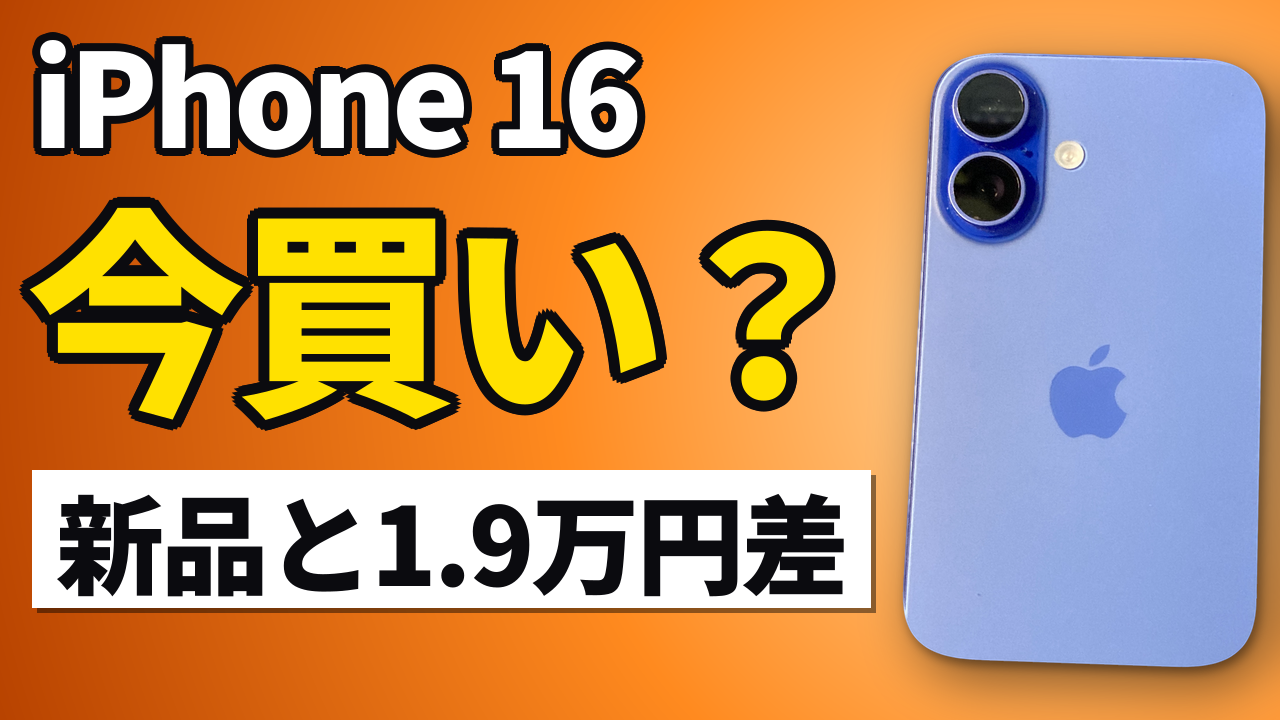
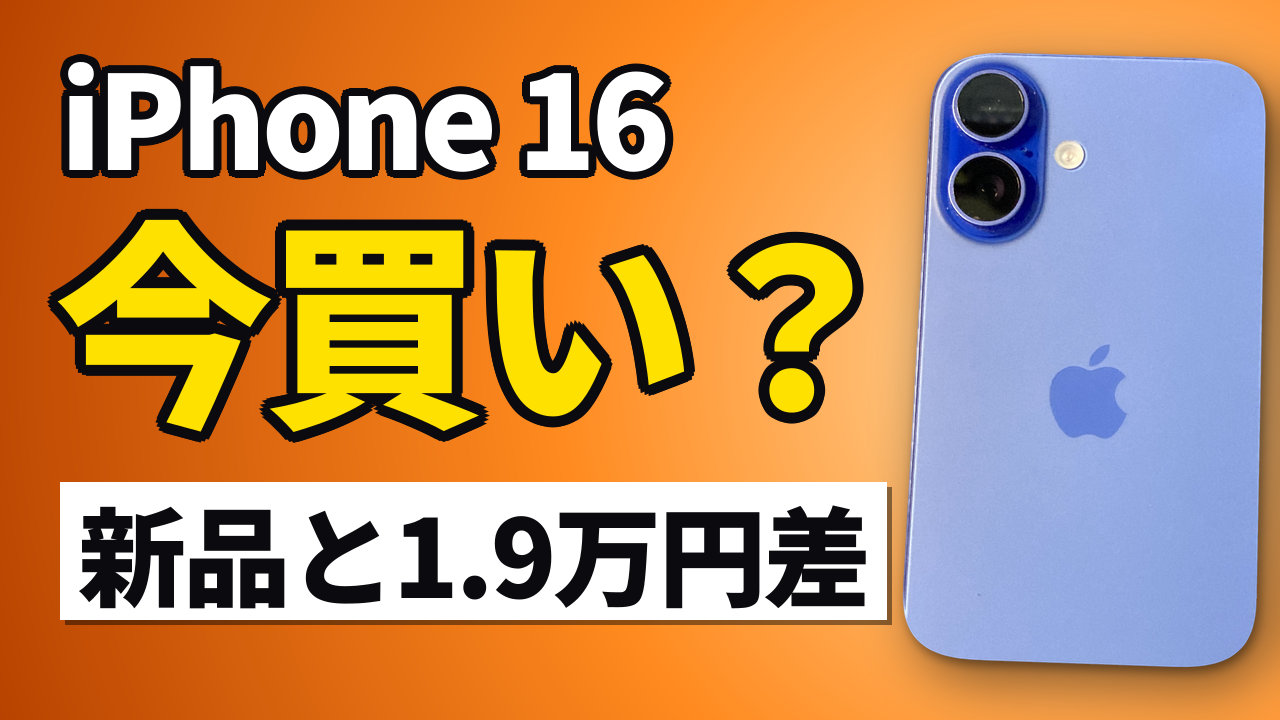
longform: サムネの文字を端から 60px 離す（型1・iPhone 16 を差し替え）

Changed region(s): [[0.0, 0.0306, 0.6875, 0.6111], [0.0, 0.6417, 0.7188, 0.8861]]

diff --git a/longform/thumb-v13-imakai.tsx b/longform/thumb-v13-imakai.tsx
@@ -12,6 +12,8 @@
  * - 型1 問い＋数字の札／型2 問い＋答えの印（○△）／型3 機種の数字だけ大きく／型4 言い切り（比較用）
  * - 色: 13＝緑、16＝オレンジ。型2 は暗い地、型3 は白い地
  * - クレジットは各フォルダの thumb-credit-N.txt と同じ（写真は同じ）
+ * - 文字と札は画面の端から 60px 以上離す（EDGE。11/14 ユーザー「隅からは離す・キワキワすぎ」。iPhone 12 の回の thumb.tsx と同じ余白）
+ * - 片方の機種だけ出すときは末尾に 13 か 16（例: npx tsx longform/thumb-v13-imakai.tsx 16）。公開済みの回の画像を上書きしないため
  */
 import { readFileSync, writeFileSync } from "node:fs";
 import { join } from "node:path";
@@ -22,6 +24,8 @@ import { notoSansJp } from "@/lib/ogFont";
 const W = 1280, H = 720;
 const RED = "#E11D1D", YELLOW = "#FFE100", BLACK = "#0B0B0F", WHITE = "#FFFFFF";
 const FONT = "Noto Sans JP";
+/** 文字と札は画面の端から 60px 以上離す（ふち取りの文字は字面の余白のぶん 6px 左へ） */
+const EDGE = 60;
 
 function Layer({ name }: { name: string }) {
   const buf = readFileSync(join(__dirname, "assets", "v13-layers", `${name}.png`));
@@ -95,56 +99,57 @@ const M16: Model = {
 const q1 = (m: Model) => (
   <Frame bg={m.bright}>
     <Layer name={`${m.key}-wide`} />
-    <T x={32} y={26}><Outlined text={m.name} size={130} color={WHITE} outer={{ w: 8, c: BLACK }} spacing={-5} /></T>
-    <T x={26} y={192}><Outlined text="今買い？" size={220} color={YELLOW} outer={{ w: 11, c: BLACK }} spacing={-10} /></T>
-    <Tag x={32} y={470} text={m.tag1.text} size={m.tag1.size} bg={WHITE} color={BLACK} />
+    <T x={EDGE} y={48}><Outlined text={m.name} size={130} color={WHITE} outer={{ w: 8, c: BLACK }} spacing={-5} /></T>
+    <T x={EDGE - 6} y={204}><Outlined text="今買い？" size={220} color={YELLOW} outer={{ w: 11, c: BLACK }} spacing={-10} /></T>
+    <Tag x={EDGE} y={482} pad={18} text={m.tag1.text} size={m.tag1.size} bg={WHITE} color={BLACK} />
   </Frame>
 );
 // 型2（問い＋答えの印）: 機種名 120 ／ 今買い？ 190 ＋ ○△ 210（図形）／ 札 104。端末は narrow（x 1000〜）・暗い地
 const q2 = (m: Model) => (
   <Frame bg={m.dark}>
     <Layer name={`${m.key}-narrow`} />
-    <T x={32} y={36}><Outlined text={m.name} size={120} color={WHITE} outer={{ w: 8, c: BLACK }} spacing={-4} /></T>
-    <T x={26} y={212}><Outlined text="今買い？" size={190} color={YELLOW} outer={{ w: 10, c: BLACK }} spacing={-10} /></T>
-    <Mark x={768} y={202} size={210} kind={m.mark.kind} color={m.mark.color} />
-    <Tag x={32} y={486} text={m.tag2.text} size={m.tag2.size} bg={WHITE} color={BLACK} />
+    <T x={EDGE} y={50}><Outlined text={m.name} size={120} color={WHITE} outer={{ w: 8, c: BLACK }} spacing={-4} /></T>
+    <T x={EDGE - 6} y={214}><Outlined text="今買い？" size={186} color={YELLOW} outer={{ w: 10, c: BLACK }} spacing={-10} /></T>
+    <Mark x={784} y={206} size={204} kind={m.mark.kind} color={m.mark.color} />
+    <Tag x={EDGE} y={486} pad={18} text={m.tag2.text} size={m.tag2.size} bg={WHITE} color={BLACK} />
   </Frame>
 );
 // 型3（機種の数字だけ大きく）: 13／16 340 ＋ は 160 ／ 今買い？ 190 ／ 札 110。「iPhone」の語は端末の写真に任せて省く・白い地
 const q3 = (m: Model) => (
   <Frame bg={WHITE_BG}>
     <Layer name={`${m.key}-wide`} />
-    <T x={22} y={-46}>
-      <Outlined text={m.num} size={340} color={m.accent} outer={{ w: 11, c: BLACK }} spacing={-14} />
+    <T x={EDGE - 10} y={-10}>
+      <Outlined text={m.num} size={300} color={m.accent} outer={{ w: 11, c: BLACK }} spacing={-14} />
       <div style={{ display: "flex", marginLeft: 22, marginBottom: 34 }}><Plain text="は" size={160} color={BLACK} /></div>
     </T>
-    <T x={26} y={314}><Outlined text="今買い？" size={190} color={RED} inner={{ w: 7, c: WHITE }} outer={{ w: 6, c: BLACK }} spacing={-10} /></T>
-    <Tag x={32} y={536} text={m.tag3} size={110} bg={BLACK} color={YELLOW} />
+    <T x={EDGE - 6} y={304}><Outlined text="今買い？" size={184} color={RED} inner={{ w: 7, c: WHITE }} outer={{ w: 6, c: BLACK }} spacing={-10} /></T>
+    <Tag x={EDGE} y={520} pad={18} text={m.tag3} size={108} bg={BLACK} color={YELLOW} />
   </Frame>
 );
 // 型4（言い切り・比較用）13: 機種名 130 ／ 今も買い 220 ／ 札 条件は電池85% 110
 const q4_13 = (m: Model) => (
   <Frame bg={m.bright}>
     <Layer name="13-wide" />
-    <T x={32} y={26}><Outlined text={m.name} size={130} color={WHITE} outer={{ w: 8, c: BLACK }} spacing={-5} /></T>
-    <T x={26} y={192}><Outlined text="今も買い" size={220} color={YELLOW} outer={{ w: 11, c: BLACK }} spacing={-12} /></T>
-    <Tag x={32} y={470} text="条件は電池85%" size={110} bg={WHITE} color={BLACK} />
+    <T x={EDGE} y={48}><Outlined text={m.name} size={130} color={WHITE} outer={{ w: 8, c: BLACK }} spacing={-5} /></T>
+    <T x={EDGE - 6} y={204}><Outlined text="今も買い" size={220} color={YELLOW} outer={{ w: 11, c: BLACK }} spacing={-12} /></T>
+    <Tag x={EDGE} y={482} pad={18} text="条件は電池85%" size={110} bg={WHITE} color={BLACK} />
   </Frame>
 );
 // 型4（言い切り・比較用）16: 機種名 120 ／ 新品と 116 ＋ 1.9万円差 196（主役）／ 札 今買い？ 112
 const q4_16 = (m: Model) => (
   <Frame bg={m.bright}>
     <Layer name="16-wide" />
-    <T x={32} y={22}><Outlined text={m.name} size={120} color={WHITE} outer={{ w: 8, c: BLACK }} spacing={-4} /></T>
-    <T x={32} y={168}><Outlined text="新品と" size={116} color={WHITE} outer={{ w: 8, c: BLACK }} spacing={-4} /></T>
-    <T x={30} y={308}><Outlined text="1.9万円差" size={196} color={YELLOW} outer={{ w: 10, c: BLACK }} spacing={-11} /></T>
-    <Tag x={32} y={544} text="今買い？" size={112} bg={WHITE} color={RED} />
+    <T x={EDGE} y={46}><Outlined text={m.name} size={120} color={WHITE} outer={{ w: 8, c: BLACK }} spacing={-4} /></T>
+    <T x={EDGE} y={174}><Outlined text="新品と" size={116} color={WHITE} outer={{ w: 8, c: BLACK }} spacing={-4} /></T>
+    <T x={EDGE - 2} y={300}><Outlined text="1.9万円差" size={196} color={YELLOW} outer={{ w: 10, c: BLACK }} spacing={-11} /></T>
+    <Tag x={EDGE} y={516} pad={18} text="今買い？" size={112} bg={WHITE} color={RED} />
   </Frame>
 );
 
 (async () => {
   const fonts = await notoSansJp(readFileSync(__filename, "utf8"));
-  for (const m of [M13, M16]) {
+  const only = process.argv[2];
+  for (const m of [M13, M16].filter((x) => !only || x.key === only)) {
     const plans: Record<string, ReactNode> = { Q1: q1(m), Q2: q2(m), Q3: q3(m), Q4: m.key === "13" ? q4_13(m) : q4_16(m) };
     for (const [name, node] of Object.entries(plans)) {
       const res = new ImageResponse(<>{node}</>, { width: W, height: H, fonts });

diff --git a/docs/changes.md b/docs/changes.md
@@ -160,3 +160,4 @@
 - 11/14 ユーザー決定: iPhone 12 の回のサムネの札は「画面修理 4万5,800円」（写真ありでも「画面」を落とさない。端末に少し被ってよい）
 - 11/14 ユーザー指摘「ショートの上と下は、文字とか置かないでほしい（被って見えないから）」: 読ませるもの（文字・数字・棒・札）を安全な帯 y280〜1440 に収めた（`shorts/scenes.tsx` の `SAFE = { top: 280, bottom: 480, right: 190 }`。公式の数値はなく資料でばらつくので、上と右は広い側・下は 25%）。実写のつかみは2行を y150→280、図を 〜y1760→〜1440 へ。帯 y250〜570→280〜572（行間だけ詰める）・内容は 95% に縮めて y578〜1358・注記 y1420〜→1364〜1440・広告の回の「PR」は y184→280（帯をその下へ）・締めの関連動画の札も帯の中。行の右の端の数字（1位の棒の件数・推移の「いまの値」・実写の行）は x890 より左へ。確かめは `npx tsx shorts/safe-check.tsx`（帯の外に出た場面を数える）。11/16 の stockxperia を書き出し直し
 - 11/14 ユーザー指摘: サムネの文字・札は画面の隅から離す（キワキワすぎ）。iPhone 12 の回は端から 60px に（thumb.tsx の EDGE）。以後のサムネも同じ
+- 11/14 横動画サムネの型（`longform/thumb-v13-imakai.tsx`）も端から 60px に（`EDGE = 60`。型1: 機種名 x32 y26→x60 y48／今買い？ x26 y192→x54 y204／札 x32 y470→x60 y482・pad 24→18。型2〜4 も左 60・下は y660 まで）。iPhone 16 の回（YSnBsKwo_2c・予約 11/15 12:00 のまま）のサムネを出し直して Studio で差し替え。13 の回の画像は出していない（末尾に `16` を付けると片方だけ出す。13 の差し替えは 11/15 昼の判定のあと）
